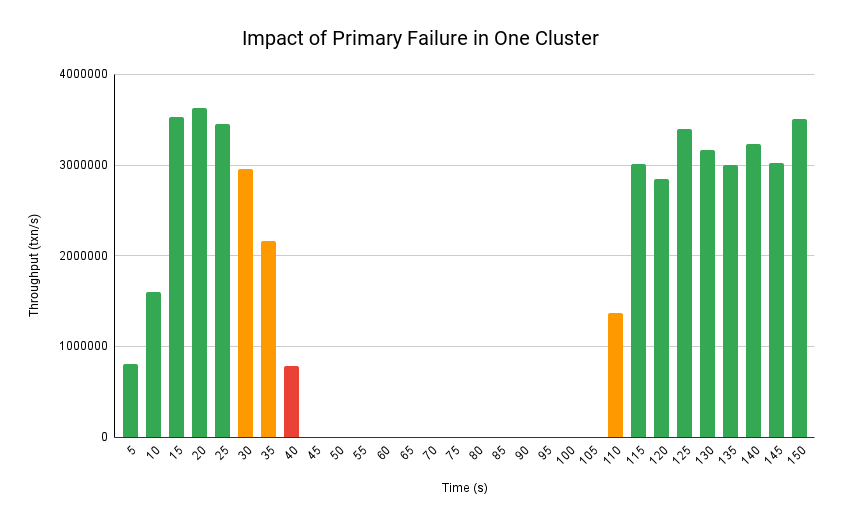
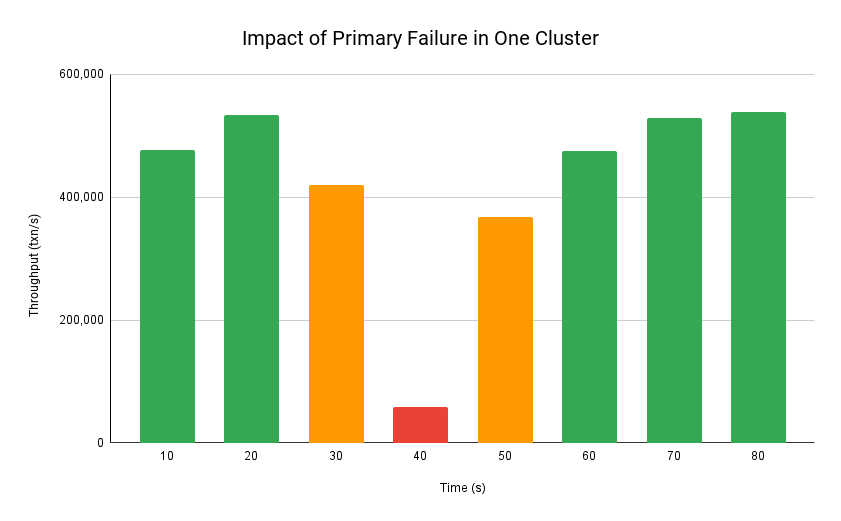
update geobft blog

Changed region(s): [[0.0618, 0.1843, 0.9584, 0.8906], [0.5256, 0.9213, 0.5874, 0.952], [0.0927, 0.1228, 0.1237, 0.1536]]

diff --git a/_posts/2023-03-07-GeoBFT.md b/_posts/2023-03-07-GeoBFT.md
@@ -337,8 +337,8 @@ With respect to throughput, the performance of Geo-2 is very close to PBFT, just
 In general, the latency of Geo-2 and Geo-4 is smaller than PBFT. Only the latency of Geo-4 is slightly larger than PBFT at the 16-replica setting, this is also because of the extra cost of inter-cluster sharing under the GeoBFT protocol. As the number of replicas increases, the latency of Geo-2 and Geo-4 becomes greatly smaller than PBFT latency, the latency of Geo-4 is almost half of PBFT latency at the 128-replica setting.
 
 <p>
-    <img src="{{ site.baseurl }}/assets/images/GeoBFT/Performance Tpt.png" alt="Cover photo" style="width: 80%"/>
-    <img src="{{ site.baseurl }}/assets/images/GeoBFT/Performance Latency.png" alt="Cover photo" style="width: 80%"/>
+    <img src="{{ site.baseurl }}/assets/images/GeoBFT/Throughput Performance.png" alt="Cover photo" style="width: 80%"/>
+    <img src="{{ site.baseurl }}/assets/images/GeoBFT/Latency Performance.png" alt="Cover photo" style="width: 80%"/>
     <br>
     <em>Figure 8. Throughput and latency as a function of the number of replicas.
     </em>
@@ -346,7 +346,7 @@ In general, the latency of Geo-2 and Geo-4 is smaller than PBFT. Only the latenc
 
 #### Impact of Primary Failure
 
-In the second experiment, we measure the performance of GeoBFT when a single primary fails (in one of the two regions). Figure 9 shows the throughput attained by GeoBFT when the primary of one cluster fails, and the replicas run the remote view change protocol to replace the faulty primary. The primary of one of the clusters fails at 30s, and the system’s average throughput starts decreasing, then drops down to 0 at 45s; Later, GeoBFT again observes an increase in throughput at 110s.
+In the second experiment, we measure the performance of GeoBFT when a single primary fails (in one of the two regions). Figure 9 shows the throughput attained by GeoBFT when the primary of one cluster fails, and the replicas run the remote view change protocol to replace the faulty primary. The primary of one of the clusters fails at 30s, and the system’s average throughput starts decreasing; Later, GeoBFT again observes an increase in throughput at 50s. GeoBFT with remote view change protocol takes more memory to run compared to normal-case GeoBFT, hence, it causes a decrease in throughput when running under the same experiment setup.
 
 <p>
     <img src="{{ site.baseurl }}/assets/images/GeoBFT/Impact of Primary Failure in One Cluster.png" alt="Cover photo" style="width: 80%"/>
@@ -358,4 +358,4 @@ In the second experiment, we measure the performance of GeoBFT when a single pri
 ### References
 
 [^1]: **Castro, Miguel, and Barbara Liskov. "*Practical byzantine fault tolerance.*" OsDI. Vol. 99. No. 1999. 1999.** 
-[^2]: **Suyash Gupta, Sajjad Rahnama, Jelle Hellings, and Mohammad Sadoghi. "*ResilientDB: Global Scale Resilient Blockchain Fabric*" URL: https://arxiv.org/abs/2002.00160 **
+[^2]: **Suyash Gupta, Sajjad Rahnama, Jelle Hellings, and Mohammad Sadoghi. "*ResilientDB: Global Scale Resilient Blockchain Fabric*" URL: https://arxiv.org/abs/2002.00160** 
